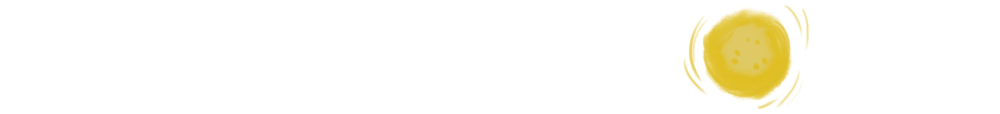
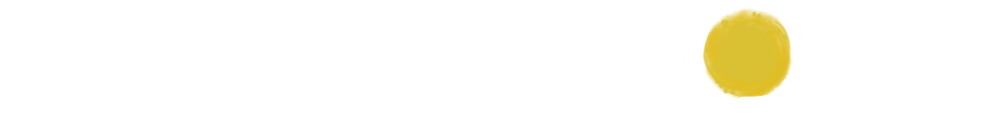
fix day/night transitions

Changed region(s): [[0.682, 0.1842, 0.775, 0.8158], [0.713, 0.7368, 0.806, 0.9474], [0.744, 0.0526, 0.806, 0.2105]]

diff --git a/public/javascripts/game/parallax.js b/public/javascripts/game/parallax.js
@@ -3,101 +3,112 @@
 *   Its attributes are getted in a json ressource.
 *   Basicaly, each ParallaxBg have a pic ressource, a size, a pos, a speed and a type (day or night)
 */
-define(function() {
+define(['../../sharedConstants'], function (Const) {
+    function ParallaxBg(dayRessource, nightRessource, width, height, speed, posY, screenWidth, repeat = true) {
+        this.dPic = dayRessource;
+        this.nPic = nightRessource;
+        this.speed = speed;
+        this.posY = posY;
+        this.posX = 0;
+        this.width = width;
+        this.height = height;
+        this.maxW = screenWidth;
 
-  var SMOOTH_DAY_NIGHHT_TRANSITION_DURATION = 2000;
-
-  function ParallaxBg (dayRessource, nightRessource, width, height, speed, posY, screenWidth) {
-    this.dPic       = dayRessource;
-    this.nPic       = nightRessource;
-    this.speed      = speed;
-    this.posY       = posY;
-    this.posX       = 0;
-    this.width      = width;
-    this.height     = height;
-    this.maxW       = screenWidth;
-    
-    this.nightCycle         = false;
-    this.isCalcOpacity      = false;
-    this.nightOpacity       = 0;
-    this.changeOpacityTime  = 0;
-  }
-
-  ParallaxBg.prototype.draw = function (ctx, time, isNight) {
-    var drawPos;
-
-    // Update BG pos
-    this.posX = (this.posX - Math.floor(time * this.speed)) % this.width;
-    drawPos = this.posX;
-
-    // Calc opacity
-    this.calcOpacity(time, isNight);
-
-    // While we don't completly fill the screen, draw a part of the bg
-    while (drawPos < this.maxW) {
-
-      // If it's not full night, draw day BG
-      if ((this.dPic) && (this.nightOpacity != 1))
-        ctx.drawImage(this.dPic, drawPos, this.posY, this.width, this.height);
-
-      // If we are in night cycle, redraw the bg with the opaque night ressource
-      if ((this.nPic) && (this.nightCycle == true)) {
-
-        // If it's not full night, save context and apply opacity on the night picture
-        if (this.nightOpacity != 1) {
-          ctx.save();
-          ctx.globalAlpha = this.nightOpacity;
-        }
-        
-        // Draw night BG
-        ctx.drawImage(this.nPic, drawPos, this.posY, this.width, this.height);
-
-        if (this.nightOpacity != 1)
-          ctx.restore();
-      }
-
-      // Go to the next part to draw
-      drawPos += this.width;
-    }
-  };
-
-  ParallaxBg.prototype.resetToDayCycle = function () {
-    this.nightCycle         = false;
-    this.isCalcOpacity      = false;
-    this.nightOpacity       = 0;
-    this.changeOpacityTime  = 0;
-  };
-
-  ParallaxBg.prototype.calcOpacity = function (time, isNight) {
-    
-    // If there is a change between the previous cycle and now, we have to smoothly recompute night opacity
-    if (this.nightCycle != isNight) {
-      this.nightCycle = isNight;
-      this.isCalcOpacity = true;
-      this.changeOpacityTime = 0;
-
-      console.log('Switching background to ' + ((this.nightCycle == true) ? 'night' : 'day'));
-    }
-
-    // If we are in a change
-    if (this.isCalcOpacity == true) {
-      // Update our opacity counter
-      this.changeOpacityTime += time;
-      this.nightOpacity = this.changeOpacityTime / SMOOTH_DAY_NIGHHT_TRANSITION_DURATION;
-
-      // Stop computing opacity if the transition is done
-      if (this.changeOpacityTime >= SMOOTH_DAY_NIGHHT_TRANSITION_DURATION) {
+        this.repeat = repeat    // TODO: change via param
+        this.nightCycle = false;
         this.isCalcOpacity = false;
-        this.nightOpacity = (this.nightCycle == true) ? 1 : 0;
+        this.nightOpacity = 1;
         this.changeOpacityTime = 0;
-      }
-
-      // According to the cycle, adjust opacity
-      if (this.nightCycle == false)
-        this.nightOpacity = 1 - this.nightOpacity;
     }
 
-  }
+    ParallaxBg.prototype.draw = function (ctx, time, isNight) {
+        var drawPos;
 
-  return (ParallaxBg);
+        // Update BG pos
+        this.posX = (this.posX - (time * this.speed)) % this.width;
+        drawPos = Math.floor(this.posX);
+
+        // Calc opacity
+        this.calcOpacity(time, isNight);
+        console.log(this.nightOpacity);
+
+        // While we don't completly fill the screen, draw a part of the bg
+        while (drawPos < this.maxW) {
+
+            if (this.nightCycle) {
+                if (this.dPic && this.nightOpacity < 1) {
+                    ctx.drawImage(this.dPic, drawPos, this.posY, this.width, this.height);
+                }
+                if (this.nPic) {
+                    if (this.nightOpacity < 1) {
+                        ctx.save();
+                        ctx.globalAlpha = this.nightOpacity;
+                    }
+
+                    ctx.drawImage(this.nPic, drawPos, this.posY, this.width, this.height);
+
+                    if (this.nightOpacity < 1)
+                        ctx.restore();
+                }
+            } else {
+                if (this.nPic && this.nightOpacity < 1) {
+                    ctx.drawImage(this.nPic, drawPos, this.posY, this.width, this.height);
+                }
+                
+                if (this.dPic) {
+                    if (this.nightOpacity < 1) {
+                        ctx.save();
+                        ctx.globalAlpha = this.nightOpacity;
+                    }
+
+                    ctx.drawImage(this.dPic, drawPos, this.posY, this.width, this.height);
+
+                    if (this.nightOpacity < 1)
+                        ctx.restore();
+                }
+            }
+            // Go to the next part to draw
+            drawPos += this.width;
+
+            if (!this.repeat)
+                break;
+        }
+    };
+
+    ParallaxBg.prototype.resetToDayCycle = function () {
+        this.nightCycle = false;
+        this.isCalcOpacity = false;
+        this.nightOpacity = 1;
+        this.changeOpacityTime = 0;
+    };
+
+    ParallaxBg.prototype.calcOpacity = function (time, isNight) {
+
+        // If there is a change between the previous cycle and now, we have to smoothly recompute night opacity
+        if (this.nightCycle !== isNight) {
+            this.nightCycle = isNight;
+            this.isCalcOpacity = true;
+            this.nightOpacity = 0;
+            this.changeOpacityTime = 0;
+
+            console.log('Switching background to ' + ((this.nightCycle === true) ? 'night' : 'day'));
+        }
+
+        // If we are in a change
+        if (this.isCalcOpacity === true) {
+            // Update our opacity counter
+            this.changeOpacityTime += time;
+            this.nightOpacity = this.changeOpacityTime / Const.SMOOTH_DAY_NIGHT_TRANSITION_DURATION;
+
+            // Stop computing opacity if the transition is done
+            if (this.changeOpacityTime >= Const.SMOOTH_DAY_NIGHT_TRANSITION_DURATION) {
+                this.isCalcOpacity = false;
+                this.nightOpacity = 1;
+                this.changeOpacityTime = 0;
+            }
+        }
+
+    }
+
+    return (ParallaxBg);
 });

diff --git a/public/javascripts/game/backgroundRessources.js b/public/javascripts/game/backgroundRessources.js
@@ -7,23 +7,35 @@ define(['../../sharedConstants'], function (Const) {
                 width: 500,
                 height: 768,
                 posY: 0,
-                speed: Const.LEVEL_SPEED / 4
+                speed: Const.LEVEL_SPEED / 4,
+                repeat: true
+            },
+            {
+                daySrc: 'images/sonne.png',
+                nightSrc: 'images/mond.png',
+                width: 1000,
+                height: 114,
+                posY: 50,
+                speed: Const.LEVEL_SPEED / 50,
+                repeat: true
             },
             {
                 daySrc: 'images/clouds.png',
-                nightSrc: 'images/night-clouds.png',
+                nightSrc: 'images/night_clouds.png',
                 width: 300,
                 height: 256,
                 posY: 416,
-                speed: Const.LEVEL_SPEED / 3
+                speed: Const.LEVEL_SPEED / 3,
+                repeat: true
             },
             {
-                daySrc: 'images/city.png',
-                nightSrc: 'images/night-city.png',
+                daySrc: 'images/city2.png',
+                nightSrc: 'images/night-city_3.png',
                 width: 300,
                 height: 256,
                 posY: 416,
-                speed: Const.LEVEL_SPEED / 2
+                speed: Const.LEVEL_SPEED / 2,
+                repeat: true
             },
             {
                 daySrc: 'images/trees.png',
@@ -31,14 +43,8 @@ define(['../../sharedConstants'], function (Const) {
                 width: 300,
                 height: 216,
                 posY: 480, //456
-                speed: Const.LEVEL_SPEED
-            },
-            {
-                daySrc: 'images/sonne.png',
-                width: 1000,
-                height: 114,
-                posY: 50,
-                speed: 0
+                speed: Const.LEVEL_SPEED,
+                repeat: true
             }
         ]);
 });

diff --git a/public/javascripts/game/canvasPainter.js b/public/javascripts/game/canvasPainter.js
@@ -35,6 +35,7 @@ define(['parallax', 'backgroundRessources', '../../sharedConstants'], function (
       // Ressources
       _nbRessourcesToLoad = getNbRessourcesToLoad(),
       _picGround,
+      _picGroundNight,
       _parallaxGround,
       _picPipe,
       _picBG = new Array();
@@ -118,9 +119,9 @@ define(['parallax', 'backgroundRessources', '../../sharedConstants'], function (
 
     // Last but not least, draw ground
     if (pipes)
-      _parallaxGround.draw(ctx, ellapsedTime);
+      _parallaxGround.draw(ctx, ellapsedTime, isNight);
     else
-      _parallaxGround.draw(ctx, 0);
+      _parallaxGround.draw(ctx, 0, isNight);
   };
 
     that.resetForNewGame = function () {
@@ -130,9 +131,10 @@ define(['parallax', 'backgroundRessources', '../../sharedConstants'], function (
     for (i = 0; i < nb; i++) {
       _picBG[i].resetToDayCycle();
     };
+    _parallaxGround.resetToDayCycle();
   };
 
-  that.loadRessources = function (onReadyCallback) {
+  that.loadRessources = function (onReadyCallback, isNight) {
     var bird,
         dBg,
         nBg,
@@ -142,7 +144,11 @@ define(['parallax', 'backgroundRessources', '../../sharedConstants'], function (
     _picGround = new Image();
     _picGround.src = 'images/ground.png';
     _picGround.onload = function() { onRessourceLoaded(onReadyCallback); };
-    _parallaxGround = new Parallax(_picGround, null, 900, 96, Const.FLOOR_SPEED, 672, Const.SCREEN_WIDTH);
+    _picGroundNight = new Image();
+    _picGroundNight.src = 'images/ground_night.png';
+    _picGroundNight.onload = function() { onRessourceLoaded(onReadyCallback); };
+    _parallaxGround = new Parallax(_picGround, _picGroundNight, 900, 96, Const.FLOOR_SPEED, 672, Const.SCREEN_WIDTH);
+    _parallaxGround.resetToDayCycle();
 
     // Load pipe
     _picPipe = new Image();

diff --git a/public/javascripts/game/gameEngine.js b/public/javascripts/game/gameEngine.js
@@ -33,8 +33,10 @@ require(['canvasPainter', 'playersManager', '../../sharedConstants'], function (
     function draw(currentTime, ellapsedTime) {
 
         // If player score is > 15, night !!
-        if ((_gameState == enumState.OnGame) && (_playerManager.getCurrentPlayer().getScore() == 15))
+        if ((_gameState === enumState.OnGame) && ((_playerManager.getCurrentPlayer().getScore() % Const.NIGHT_CICLE) >= Const.NIGHT_CICLE / 2))
             _isNight = true;
+        else
+            _isNight = false;
 
         canvasPainter.draw(currentTime, ellapsedTime, _playerManager, _pipeList, _gameState, _isNight);
     }
@@ -431,5 +433,5 @@ require(['canvasPainter', 'playersManager', '../../sharedConstants'], function (
     canvasPainter.loadRessources(function () {
         console.log('Ressources loaded, connect to server...');
         startClient();
-    });
+    }, _isNight);
 });

diff --git a/sharedConstants.js b/sharedConstants.js
@@ -18,6 +18,9 @@ var constant = {
     TIME_BETWEEN_GAMES: 10 * 1000,
     TIME_TO_START_NEW_GAME: 5 * 1000,
 
+    NIGHT_CICLE: 15,
+    SMOOTH_DAY_NIGHT_TRANSITION_DURATION: 3000,
+
     BIRD_WIDTH: 42,
     BIRD_HEIGHT: 30,
 
@@ -26,9 +29,9 @@ var constant = {
     DISTANCE_BETWEEN_PIPES: 380,
     MIN_PIPE_HEIGHT: 60,
     MAX_PIPE_HEIGHT: 630,
-    HEIGHT_BETWEEN_PIPES: 250, // 150
+    HEIGHT_BETWEEN_PIPES: 250, // 250
     MIN_HEIGHT_BETWEEN_PIPES: 150, // 150
-    MIN_HEIGHT_AFTER_MILLISECONDS: 60 * 1000, // 150
+    MIN_HEIGHT_AFTER_MILLISECONDS: 60 * 1000,
     
     SPREADSHEET_SYNC_ENABLED: !runLocal,
     SPREADSHEET_ID: '1TwSQAIEH2RY4TfgcmipEDBjY2NRSBUBIDLPxpqo6hww',

diff --git a/public/stylesheets/app.css b/public/stylesheets/app.css
@@ -127,7 +127,7 @@ canvas {
 #gs-ranking-box,
 #gs-highscores-box {
 	height: 300px;
-	width: 450px;
+	width: 600px;
 	margin: auto;
 
 	background-color: #DED793;
@@ -193,7 +193,7 @@ canvas {
 	list-style-type: none;
 	color: #463740;
 	font-size: 32px;
-	margin: 0 0 15px 10px;
+	margin: 0 0 15px 20px;
 
 	color: white;
 	text-shadow: 3px 0px 0px #40394A, 0px 3px 0px #40394A, -3px 0px 0px #40394A, 0px -3px 0px #40394A;
